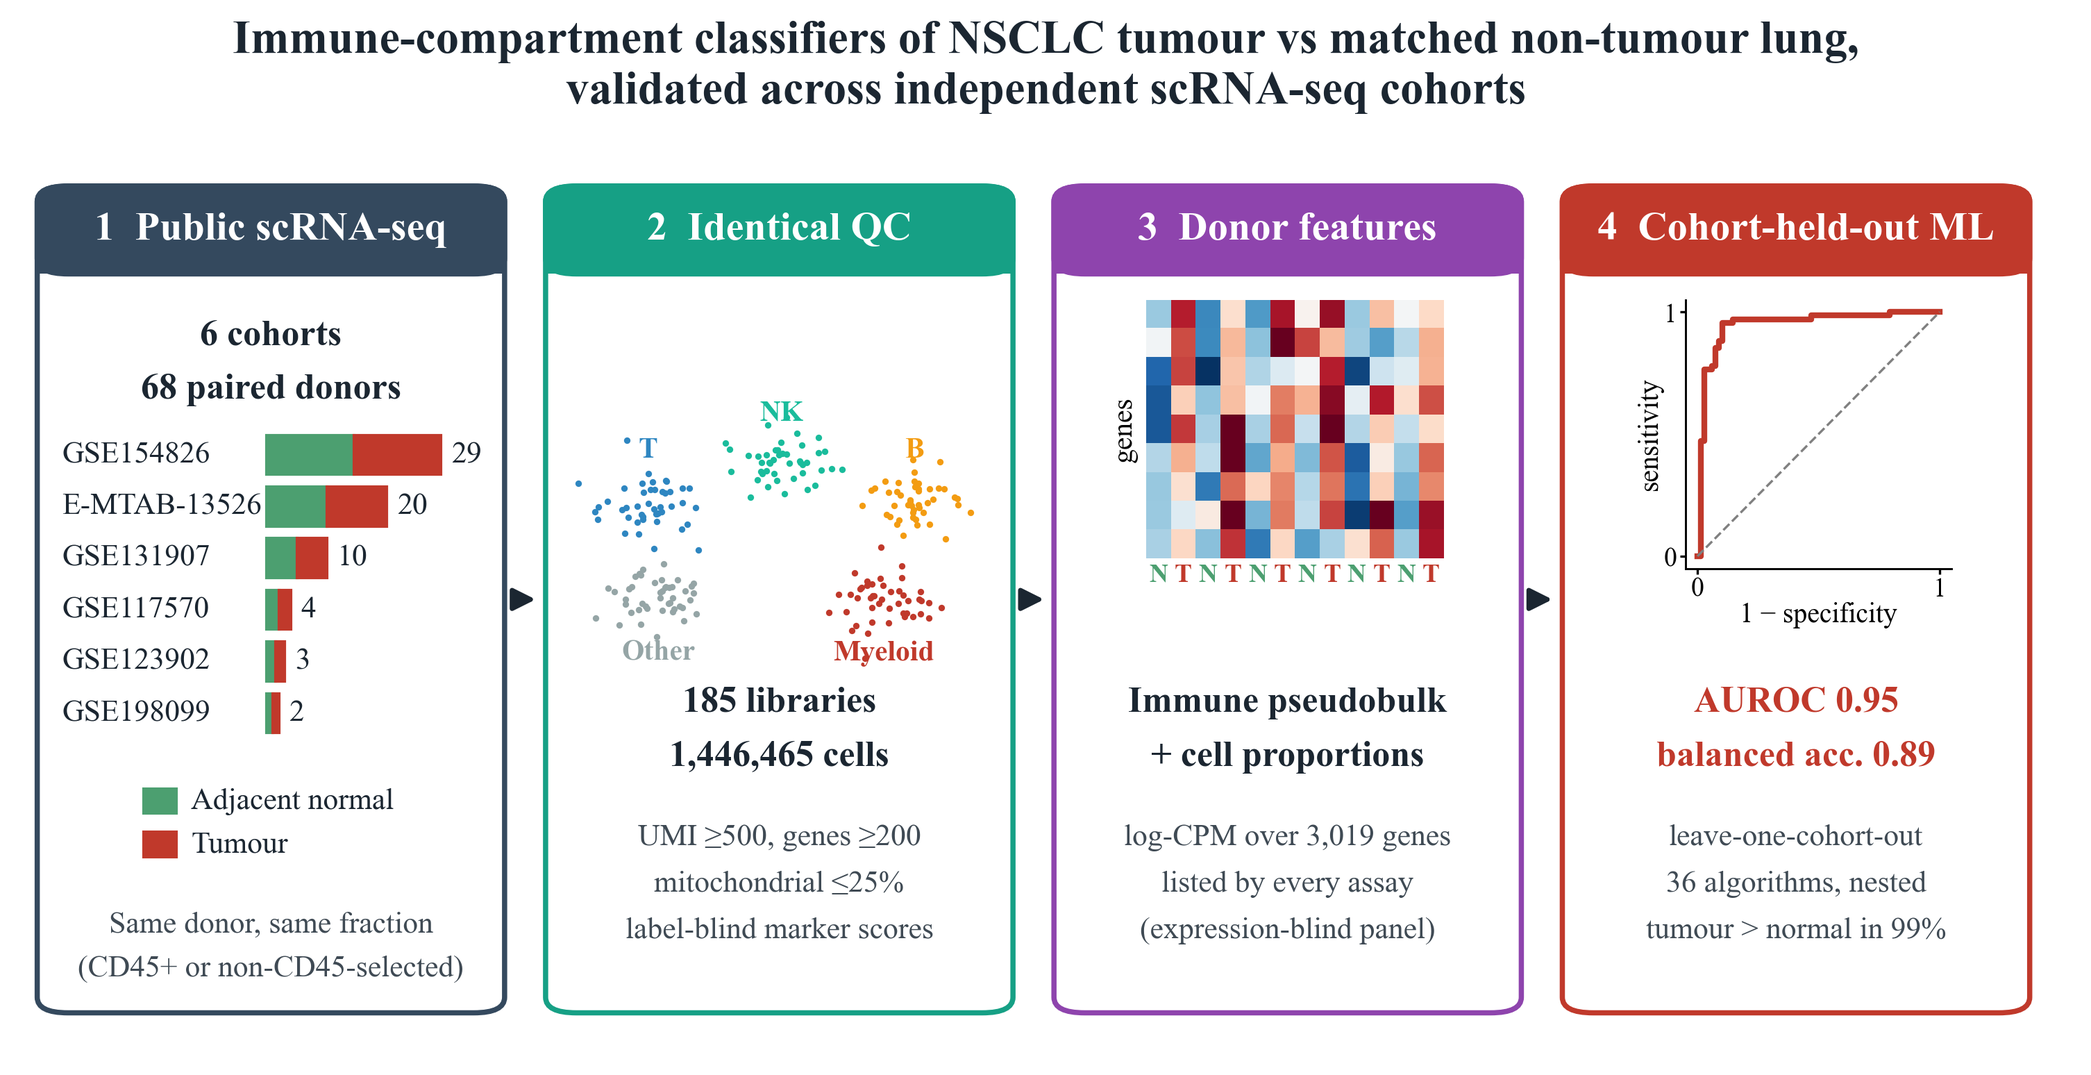
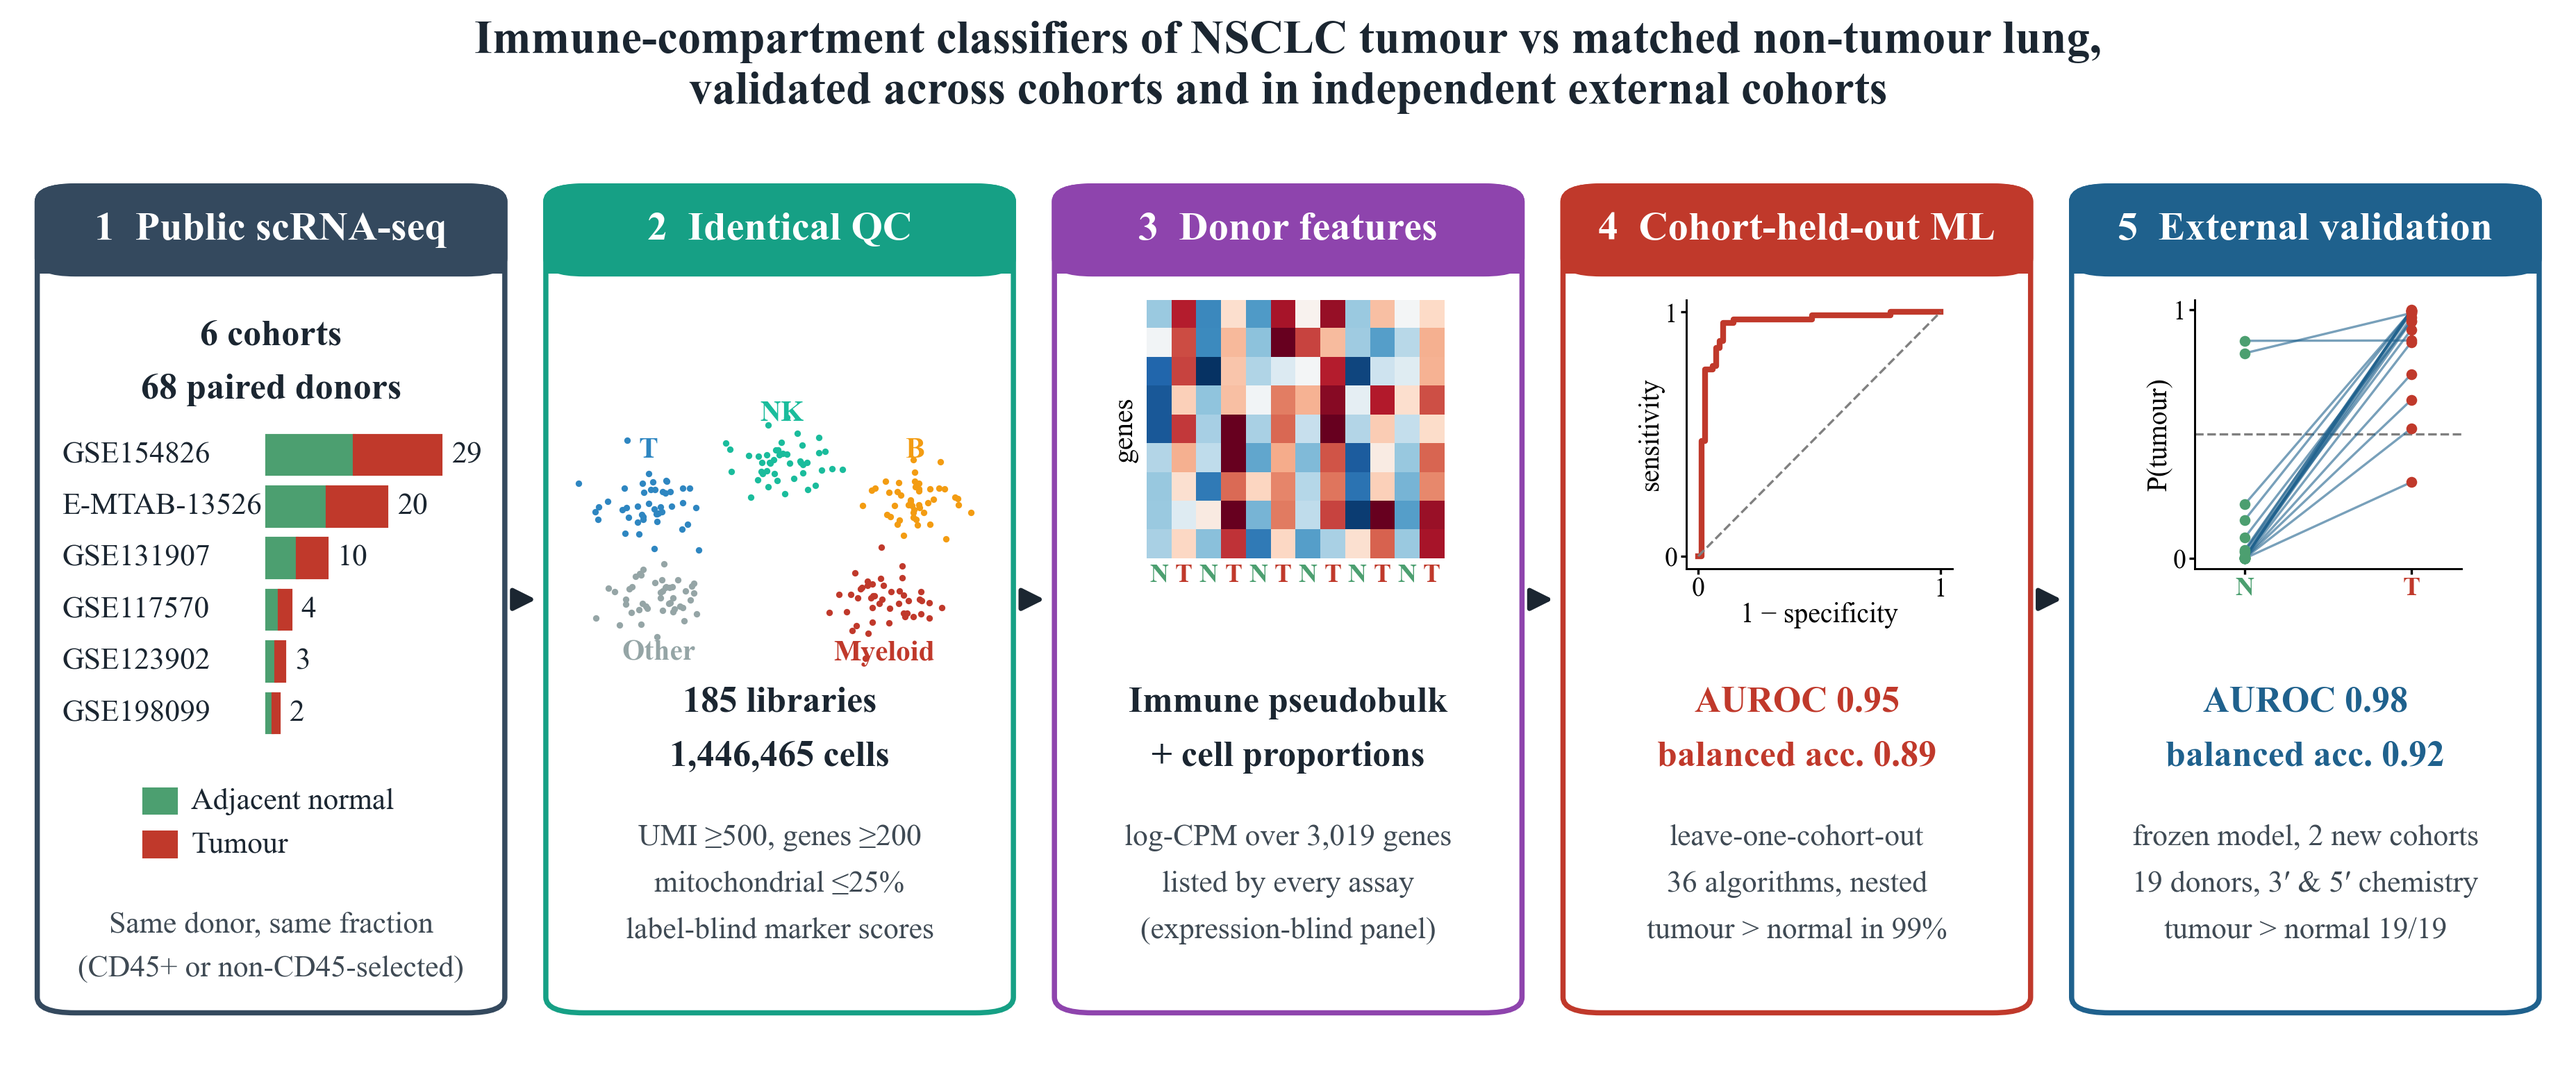
Graphical abstract: add external validation panel

diff --git a/scrna2ml/graphical.py b/scrna2ml/graphical.py
@@ -12,10 +12,11 @@ INK = '#1B2631'
 GREY = '#3F4A54'
 ACCENT = '#C0392B'
 GREEN = '#4C9F70'
-W, H, Y = 0.228, 0.80, 0.04
-XS = [0.008, 0.256, 0.504, 0.752]
-COLS = ['#34495E', '#16A085', '#8E44AD', ACCENT]
+H, Y = 0.80, 0.04
+BOX_MM, GAP_MM, MARGIN_MM = 57, 5, 2
+COLS = ['#34495E', '#16A085', '#8E44AD', ACCENT, '#1F618D']
 HEADER = 0.085
+W = S = None
 
 
 def _box(ax, x, title, color):
@@ -30,7 +31,19 @@ def _lines(ax, x, y, lines, size=11, color=GREY, weight='normal', gap=0.052):
         ax.text(x + W / 2, y - i * gap, line, ha='center', va='center', fontsize=size, color=color, fontweight=weight)
 
 
+def _external(R):
+    d = R.root / 'external'
+    if not (d / 'metrics.tsv').exists():
+        return None
+    pred = pd.read_csv(d / 'predictions.tsv', sep='\t')
+    m = pd.read_csv(d / 'metrics.tsv', sep='\t')
+    pred = pred[(pred.compartment == 'immune') & (pred.status == 'scored')]
+    pooled = m[(m.compartment == 'immune') & (m.cohort == 'All external')].iloc[0]
+    return pred, pooled, float(R.cfg['external']['threshold'])
+
+
 def draw(R, path):
+    global W, S
     cfg = R.cfg
     units = R.units('immune')
     qc = pd.read_csv(R.root / 'seurat' / 'qc_audit.tsv', sep='\t')
@@ -44,19 +57,28 @@ def draw(R, path):
     from .models import registry
     n_models = len([m for m in registry()[0] if m != 'dummy_prior'])
     q = cfg['qc']
+    ext = _external(R)
 
-    fig = plt.figure(figsize=(250 * MM, 140 * MM))
+    n_box = 5 if ext is not None else 4
+    width_mm = n_box * BOX_MM + (n_box - 1) * GAP_MM + 2 * MARGIN_MM
+    S = 250 / width_mm
+    W = BOX_MM / width_mm
+    XS = [(MARGIN_MM + i * (BOX_MM + GAP_MM)) / width_mm for i in range(n_box)]
+
+    fig = plt.figure(figsize=(width_mm * MM, 140 * MM))
     ax = fig.add_axes([0, 0, 1, 0.9])
     ax.set_xlim(0, 1)
     ax.set_ylim(0, 1)
     ax.axis('off')
-    fig.text(0.5, 0.86, 'Immune-compartment classifiers of NSCLC tumour vs matched non-tumour lung,\nvalidated across independent scRNA-seq cohorts',
+    subtitle = ('validated across cohorts and in independent external cohorts' if ext is not None
+                else 'validated across independent scRNA-seq cohorts')
+    fig.text(0.5, 0.86, f'Immune-compartment classifiers of NSCLC tumour vs matched non-tumour lung,\n{subtitle}',
              ha='center', va='center', fontsize=16, fontweight='bold', color=INK, linespacing=1.25)
-    titles = ['1  Public scRNA-seq', '2  Identical QC', '3  Donor features', '4  Cohort-held-out ML']
+    titles = ['1  Public scRNA-seq', '2  Identical QC', '3  Donor features', '4  Cohort-held-out ML', '5  External validation'][:n_box]
     for x, t, c in zip(XS, titles, COLS):
         _box(ax, x, t, c)
     for a, b in zip(XS[:-1], XS[1:]):
-        ax.add_patch(FancyArrowPatch((a + W + 0.002, Y + H / 2), (b - 0.002, Y + H / 2), arrowstyle='-|>', mutation_scale=16, color=INK, lw=1.6))
+        ax.add_patch(FancyArrowPatch((a + W + 0.002 * S, Y + H / 2), (b - 0.002 * S, Y + H / 2), arrowstyle='-|>', mutation_scale=16, color=INK, lw=1.6))
     top = Y + H - HEADER
 
     # 1 cohorts
@@ -65,15 +87,15 @@ def draw(R, path):
     maxn = cohorts.max()
     for i, (c, n) in enumerate(cohorts.items()):
         yy = top - 0.175 - i * 0.05
-        ax.text(x0 + 0.012, yy, c, fontsize=10.5, va='center', color=INK)
-        half = 0.085 * n / maxn / 2
-        ax.add_patch(Rectangle((x0 + 0.112, yy - 0.019), half, 0.038, color=GREEN))
-        ax.add_patch(Rectangle((x0 + 0.112 + half, yy - 0.019), half, 0.038, color=ACCENT))
-        ax.text(x0 + 0.117 + 0.085 * n / maxn, yy, str(n), fontsize=10.5, va='center', color=INK)
+        ax.text(x0 + 0.012 * S, yy, c, fontsize=10.5, va='center', color=INK)
+        half = 0.085 * S * n / maxn / 2
+        ax.add_patch(Rectangle((x0 + 0.112 * S, yy - 0.019), half, 0.038, color=GREEN))
+        ax.add_patch(Rectangle((x0 + 0.112 * S + half, yy - 0.019), half, 0.038, color=ACCENT))
+        ax.text(x0 + (0.117 + 0.085 * n / maxn) * S, yy, str(n), fontsize=10.5, va='center', color=INK)
     for k, (lab, col) in enumerate([('Adjacent normal', GREEN), ('Tumour', ACCENT)]):
         yb = Y + 0.205 - k * 0.042
-        ax.add_patch(Rectangle((x0 + 0.052, yb - 0.012), 0.016, 0.024, color=col))
-        ax.text(x0 + 0.075, yb, lab, fontsize=10.5, va='center', color=INK)
+        ax.add_patch(Rectangle((x0 + 0.052 * S, yb - 0.012), 0.016 * S, 0.024, color=col))
+        ax.text(x0 + 0.075 * S, yb, lab, fontsize=10.5, va='center', color=INK)
     _lines(ax, x0, Y + 0.085, ['Same donor, same fraction', '(CD45+ or non-CD45-selected)'], size=10.5, gap=0.042)
 
     # 2 QC + annotation
@@ -83,9 +105,9 @@ def draw(R, path):
     pal = {'T': '#2E86C1', 'NK': '#1ABC9C', 'B': '#F39C12', 'Myeloid': '#C0392B', 'Other': '#95A5A6'}
     for k, (cx, cy) in centers.items():
         pts = rng.normal(0, 0.012, (45, 2))
-        ax.scatter(x0 + cx + pts[:, 0], Y + cy * H - 0.05 + pts[:, 1] * 1.5, s=5, color=pal[k], lw=0)
+        ax.scatter(x0 + cx * S + pts[:, 0] * S, Y + cy * H - 0.05 + pts[:, 1] * 1.5, s=5, color=pal[k], lw=0)
         dy = -0.05 if k in ('Other', 'Myeloid') else 0.05
-        ax.text(x0 + cx, Y + cy * H - 0.05 + dy, k, fontsize=10, ha='center', va='center', color=pal[k], fontweight='bold')
+        ax.text(x0 + cx * S, Y + cy * H - 0.05 + dy, k, fontsize=10, ha='center', va='center', color=pal[k], fontweight='bold')
     _lines(ax, x0, Y + 0.30, [f'{n_libs} libraries', f'{n_cells:,} cells'], size=12.5, color=INK, weight='bold')
     _lines(ax, x0, Y + 0.17, [f"UMI ≥{q['min_counts']}, genes ≥{q['min_features']}", f"mitochondrial ≤{q['max_percent_mt']}%",
                               'label-blind marker scores'], size=10.5, gap=0.045)
@@ -95,7 +117,7 @@ def draw(R, path):
     hm = rng.normal(0, 1, (9, 12))
     hm[:, ::2] -= 0.9
     hm[:, 1::2] += 0.9
-    hax = fig.add_axes([x0 + 0.045, (Y + 0.44) * 0.9, 0.145, 0.25 * 0.9])
+    hax = fig.add_axes([x0 + 0.045 * S, (Y + 0.44) * 0.9, 0.145 * S, 0.25 * 0.9])
     hax.imshow(hm, cmap='RdBu_r', aspect='auto', vmin=-2.5, vmax=2.5)
     hax.set_xticks(range(12), ['N', 'T'] * 6, fontsize=9, fontweight='bold')
     for i, t in enumerate(hax.get_xticklabels()):
@@ -110,7 +132,7 @@ def draw(R, path):
 
     # 4 validation
     x0 = XS[3]
-    inset = fig.add_axes([x0 + 0.06, (Y + 0.43) * 0.9, 0.13, 0.26 * 0.9])
+    inset = fig.add_axes([x0 + 0.06 * S, (Y + 0.43) * 0.9, 0.13 * S, 0.26 * 0.9])
     fpr, tpr, _ = roc_curve(p.truth, p.score)
     inset.plot(fpr, tpr, color=ACCENT, lw=2)
     inset.plot([0, 1], [0, 1], ls='--', color='grey', lw=.8)
@@ -124,6 +146,33 @@ def draw(R, path):
     _lines(ax, x0, Y + 0.30, [f'AUROC {m.auroc:.2f}', f'balanced acc. {m.balanced_accuracy:.2f}'], size=12.5, color=ACCENT, weight='bold')
     _lines(ax, x0, Y + 0.17, ['leave-one-cohort-out', f'{n_models} algorithms, nested', f'tumour > normal in {m.paired_concordance:.0%}'], size=10.5, gap=0.045)
 
-    for ext in ('pdf', 'png', 'svg'):
-        fig.savefig(f'{path}.{ext}', bbox_inches='tight', dpi=300)
+    # 5 external validation
+    if ext is not None:
+        pred, pooled, threshold = ext
+        x0 = XS[4]
+        col = COLS[4]
+        sl = fig.add_axes([x0 + 0.06 * S, (Y + 0.43) * 0.9, 0.13 * S, 0.26 * 0.9])
+        wide = pred.pivot(index='donor_id', columns='tissue', values='score')
+        for _, r in wide.iterrows():
+            sl.plot([0, 1], [r.Normal, r.Tumor], color=col, lw=.8, alpha=.6, zorder=1)
+        for xv, t, c in ((0, 'Normal', GREEN), (1, 'Tumor', ACCENT)):
+            sl.scatter(np.full(len(wide), xv), wide[t], s=14, color=c, lw=0, zorder=2)
+        sl.axhline(threshold, ls='--', color='grey', lw=.8, zorder=0)
+        sl.set_xlim(-.3, 1.3)
+        sl.set_ylim(-.04, 1.04)
+        sl.set_xticks([0, 1], ['N', 'T'], fontsize=10, fontweight='bold')
+        for t, c in zip(sl.get_xticklabels(), (GREEN, ACCENT)):
+            t.set_color(c)
+        sl.set_yticks([0, 1])
+        sl.tick_params(labelsize=9, length=2, pad=1)
+        sl.set_ylabel('P(tumour)', fontsize=9.5, labelpad=0)
+        for s in ('top', 'right'):
+            sl.spines[s].set_visible(False)
+        n_coh, n_don = pred.cohort.nunique(), int(pooled.donors_scored)
+        _lines(ax, x0, Y + 0.30, [f'AUROC {pooled.auroc:.2f}', f'balanced acc. {pooled.balanced_accuracy:.2f}'], size=12.5, color=col, weight='bold')
+        _lines(ax, x0, Y + 0.17, [f'frozen model, {n_coh} new cohorts', f"{n_don} donors, {' & '.join(sorted({c.split()[0][0] + '′' for c in pred.chemistry}))} chemistry",
+                                  f'tumour > normal {int(pooled.pairs_tumour_higher)}/{n_don}'], size=10.5, gap=0.045)
+
+    for ext_ in ('pdf', 'png', 'svg'):
+        fig.savefig(f'{path}.{ext_}', bbox_inches='tight', dpi=300)
     plt.close(fig)
